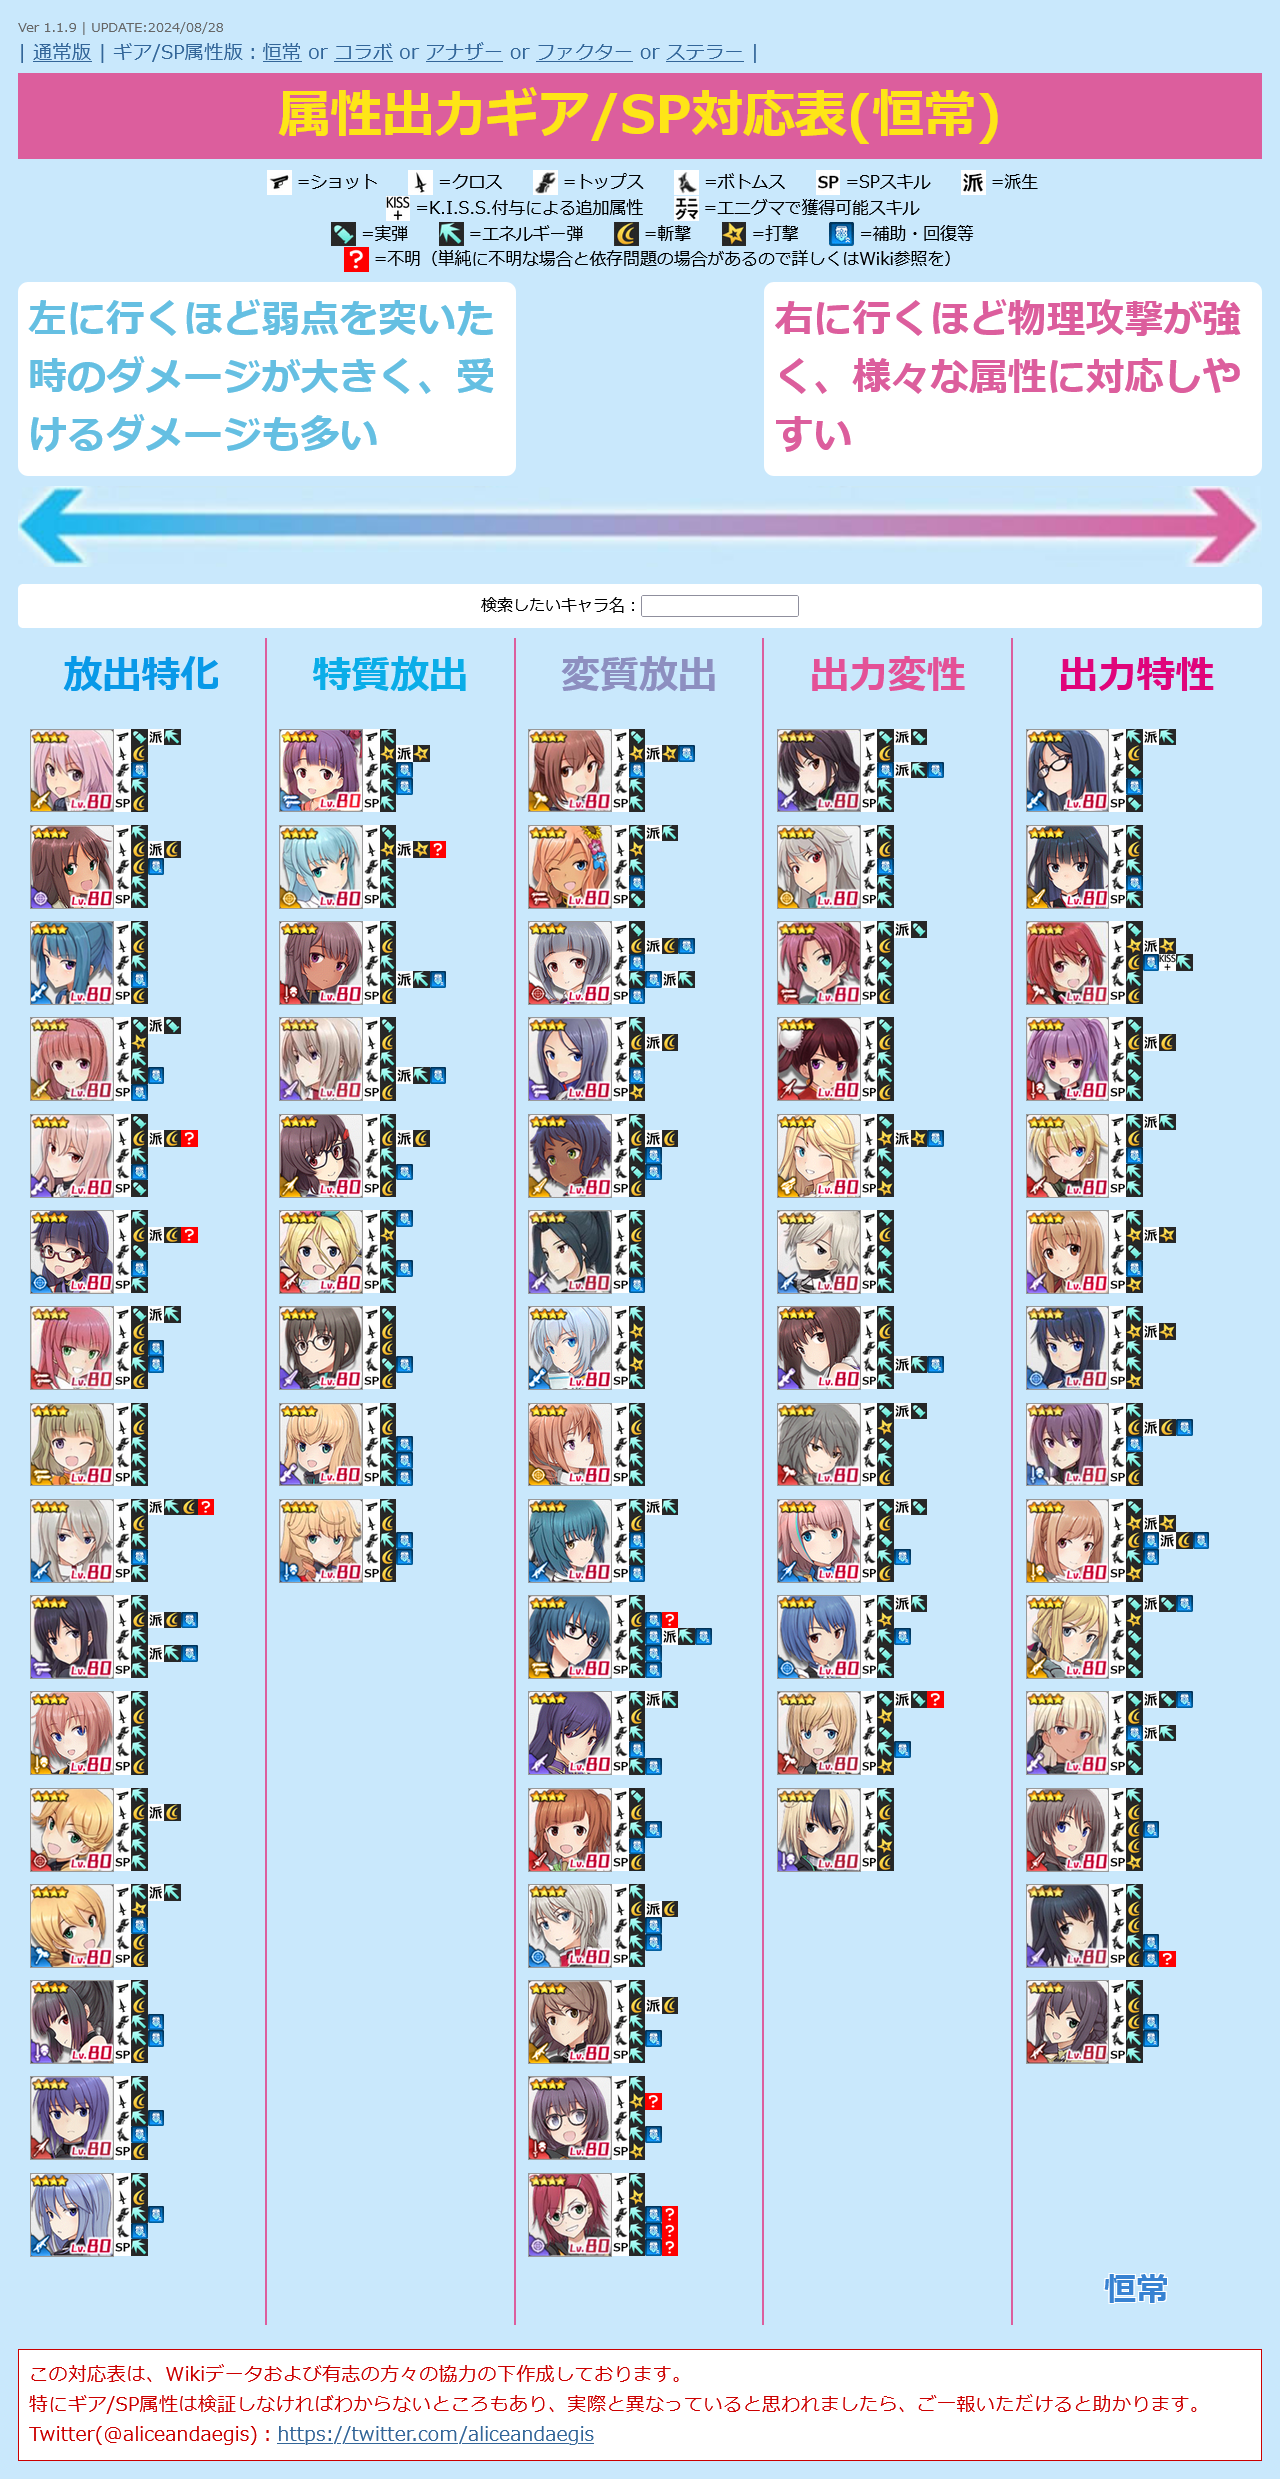
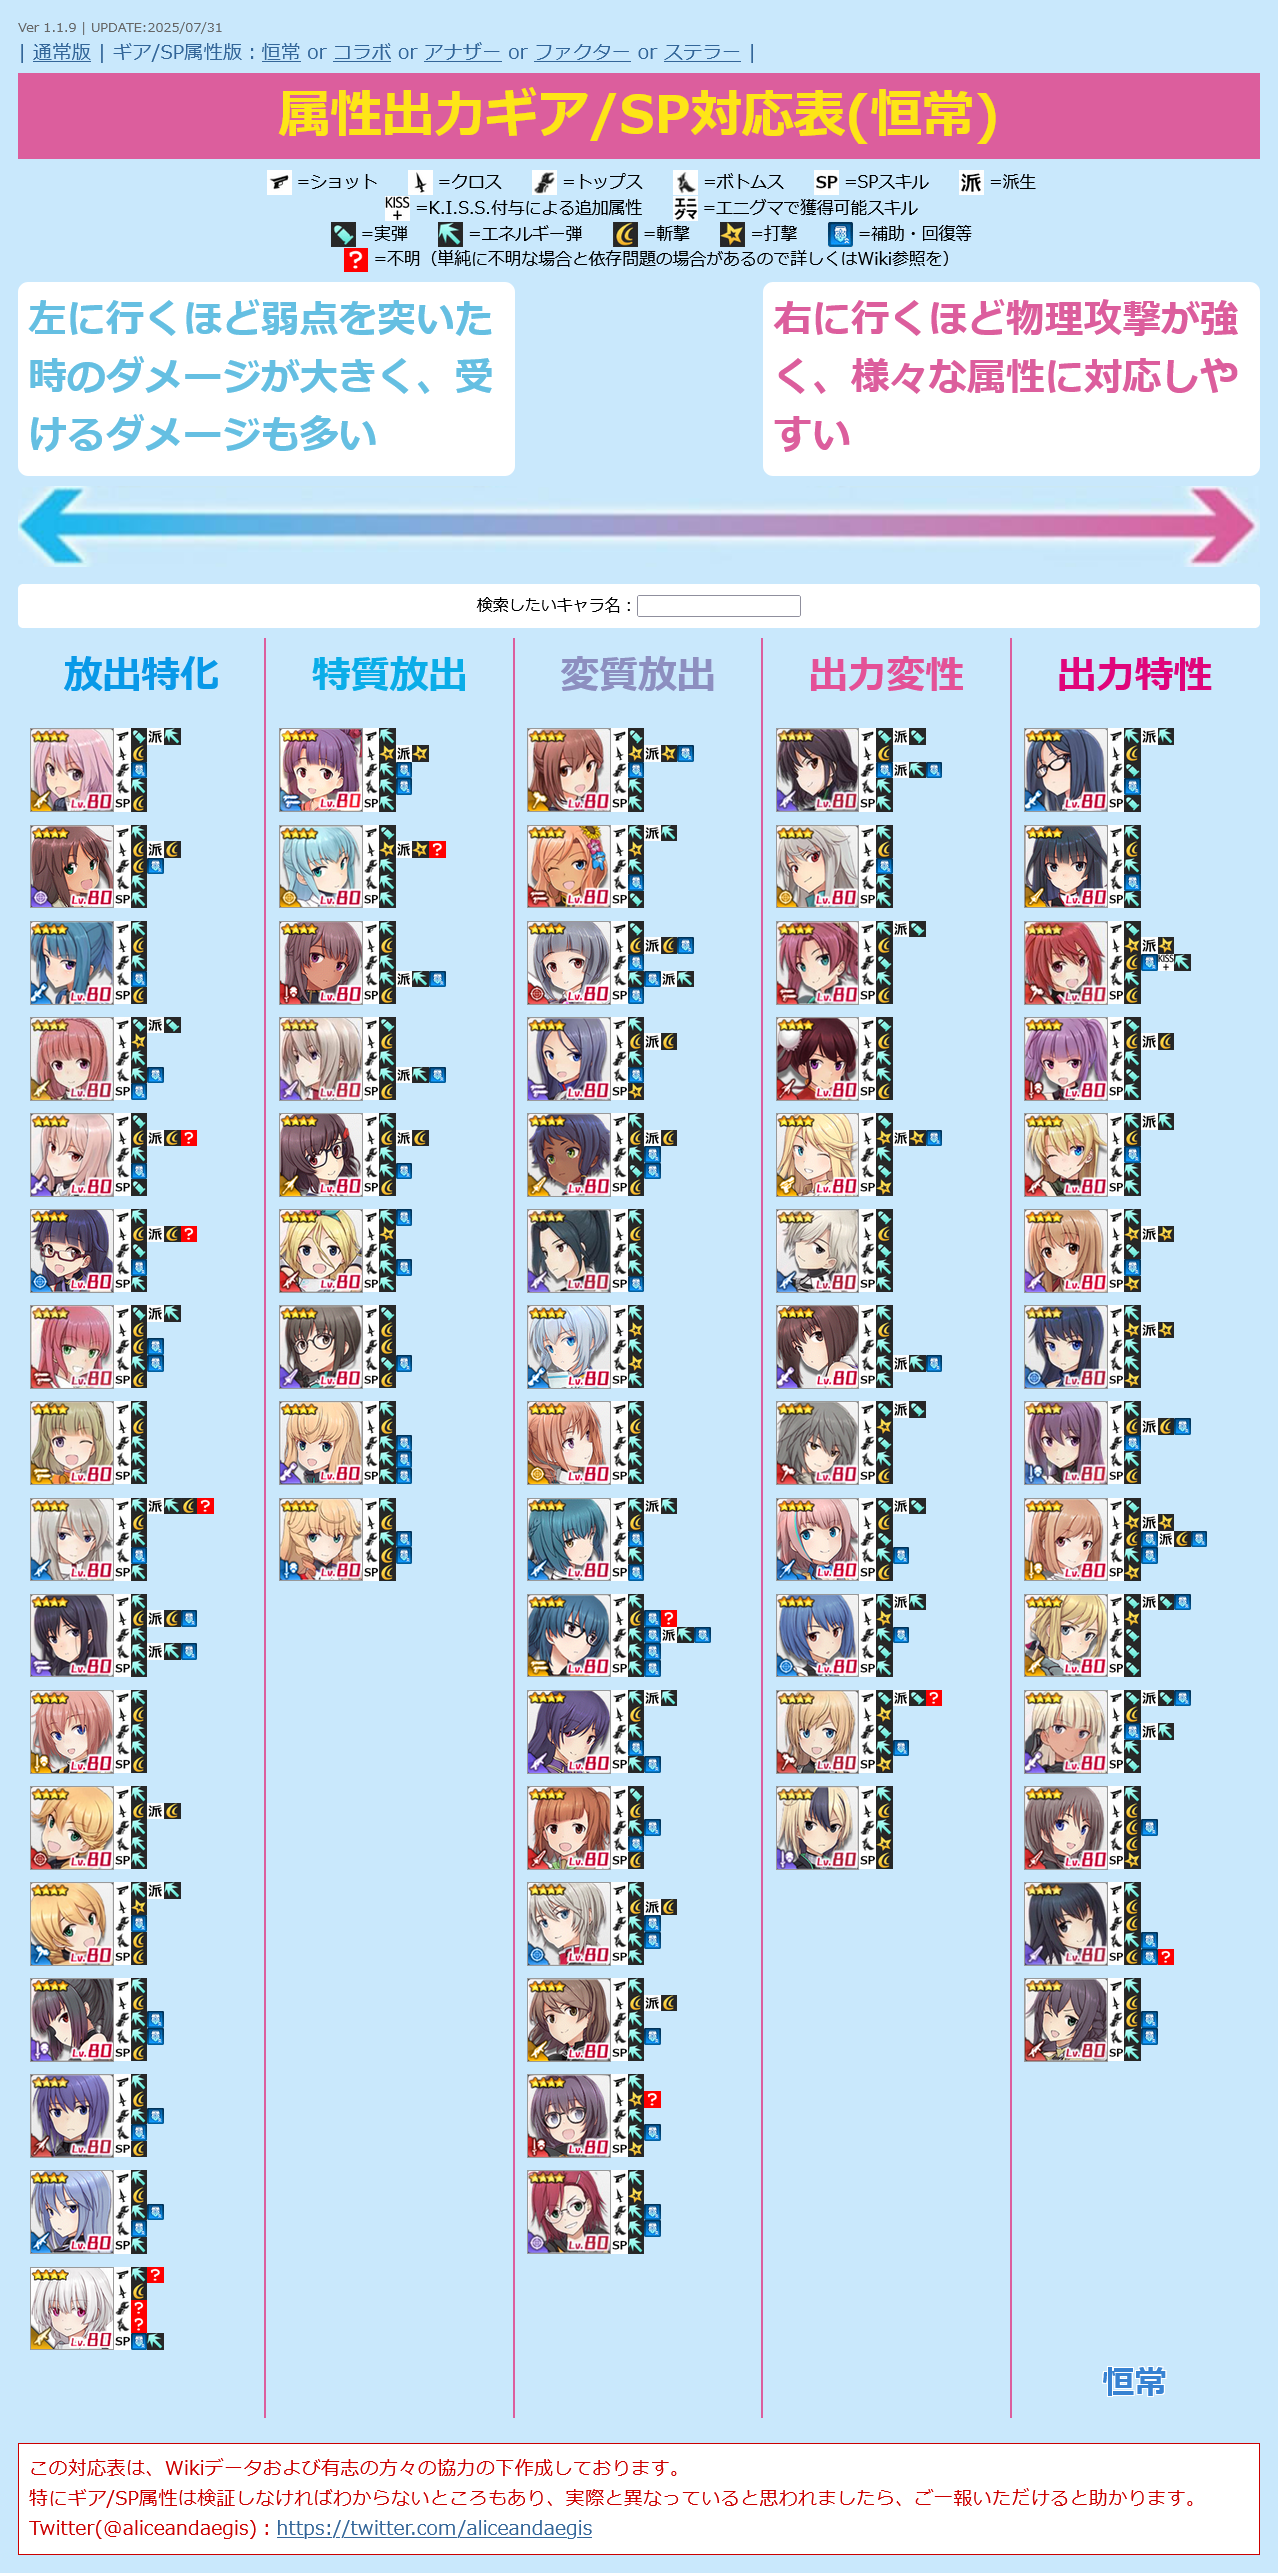
UPDATE charadata
・叶屋 寧里を追加
・アナザー 叶屋 寧里 / 黒子を追加

diff --git a/alice.html b/alice.html
@@ -12,7 +12,7 @@
   <script>
 
 /* 更新情報 必要に応じて書き換えてください */
-  var version = "Ver 1.1.9 | UPDATE:2025/07/16";
+  var version = "Ver 1.1.9 | UPDATE:2025/07/31";
 
 
 /*
@@ -2500,6 +2500,34 @@
       "attr": "2",
       "link": "https://wikiwiki.jp/alicegear/%E3%82%A8%E3%83%9E%E3%83%BB%E3%82%A2%E3%82%B7%E3%83%A5%E3%83%95%E3%82%A3%E3%83%BC%E3%83%AB%E3%83%89",
       "category": ""
+    },
+    {
+      "id": "68",
+      "type": "1",
+      "src": "normal-neri.png",
+      "name": "叶屋 寧里",
+      "equip1": "2?",
+      "equip2": "3",
+      "equip3": "?",
+      "equip4": "?",
+      "sp": "52",
+      "attr": "1",
+      "link": "https://wikiwiki.jp/alicegear/%E5%8F%B6%E5%B1%8B%E5%AF%A7%E9%87%8C",
+      "category": ""
+    },
+    {
+      "id": "68",
+      "type": "3",
+      "src": "another-neri.png",
+      "name": "叶屋 寧里 / 黒子",
+      "equip1": "2?",
+      "equip2": "3",
+      "equip3": "?",
+      "equip4": "?",
+      "sp": "35?",
+      "attr": "1",
+      "link": "https://wikiwiki.jp/alicegear/%E5%8F%B6%E5%B1%8B%E5%AF%A7%E9%87%8C%E9%BB%92%E5%AD%90",
+      "category": "10"
     },
     {
       "id": "101",
